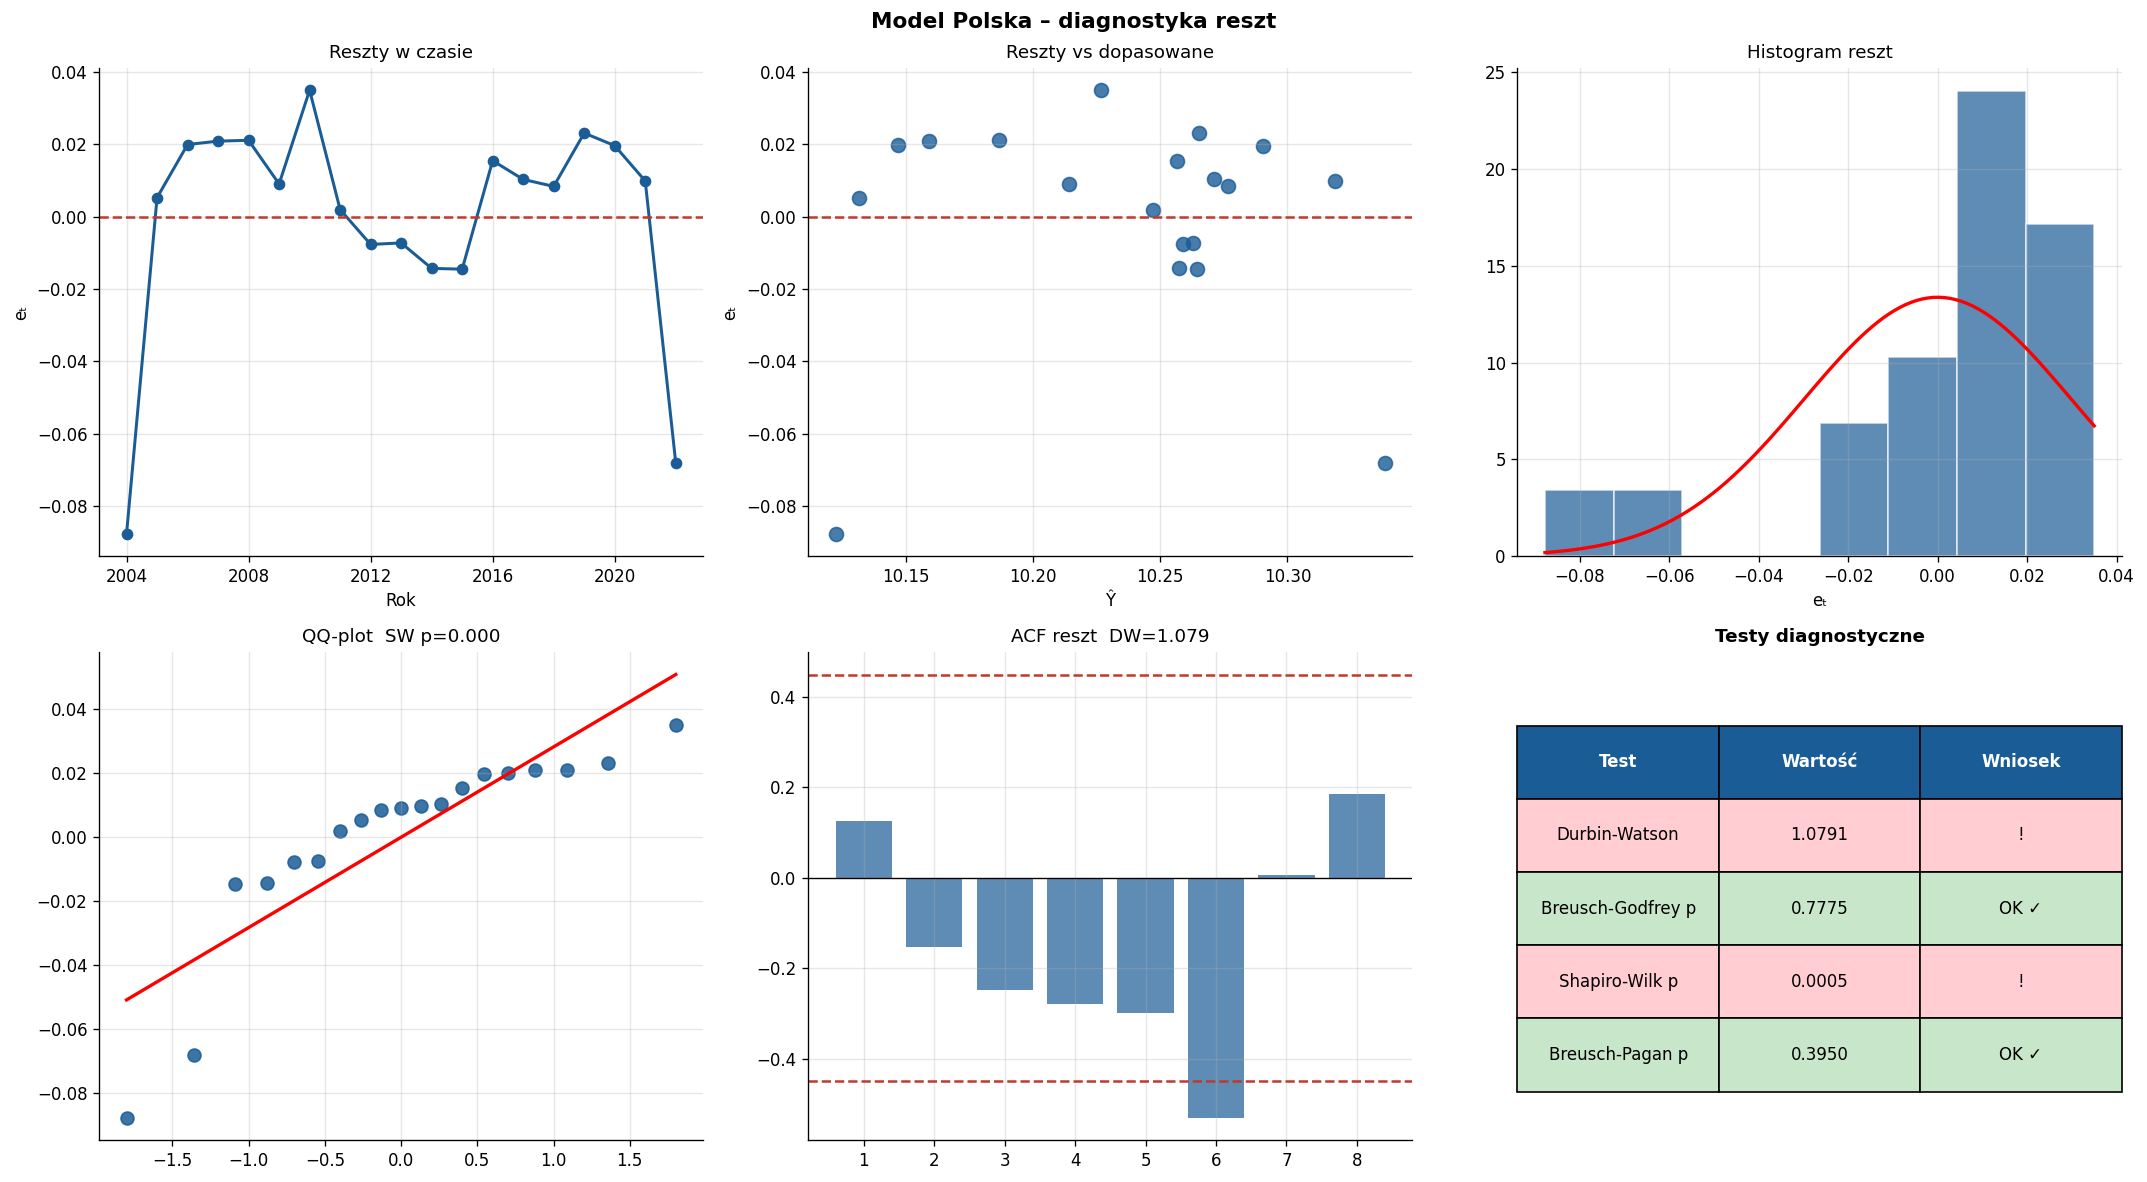
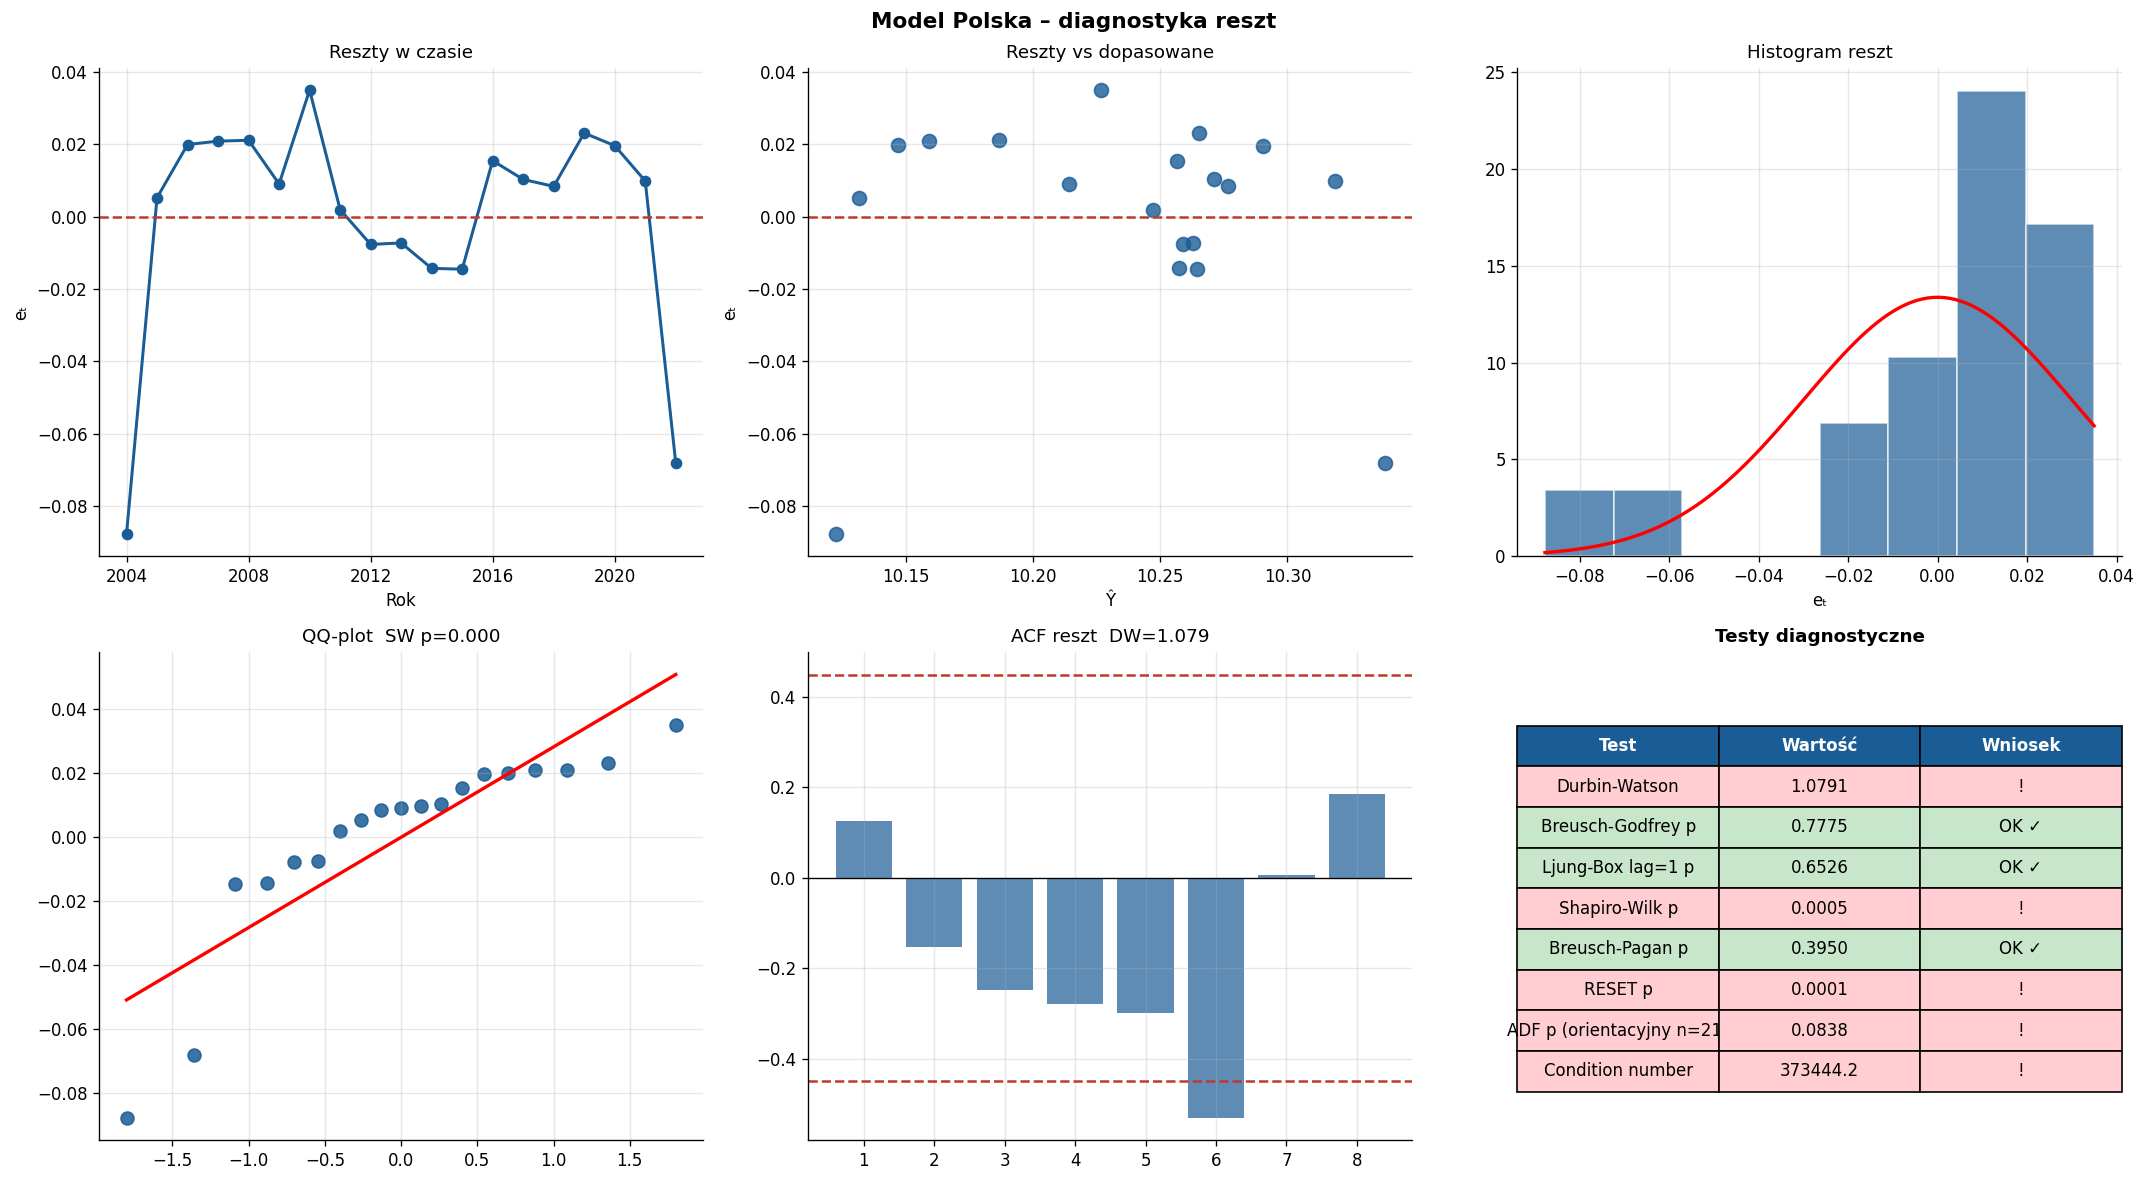
Dodanie testów statystycznych.

Changed region(s): [[0.6865, 0.6091, 0.9986, 0.9442]]

diff --git a/analiza.py b/analiza.py
@@ -446,6 +446,32 @@ sw_s_p, sw_p_p        = stats.shapiro(model_p.resid)
 bp_lm_p, bp_p_p, _, _ = het_breuschpagan(model_p.resid, X_tr_p)
 print(f"DW={dw_p:.4f}  BG p={bg_p:.4f}  SW p={sw_p_p:.4f}  BP p={bp_p_p:.4f}")
 
+# ── Dodatkowe testy – Model Polska ───────────────────────────
+
+# Ljung-Box (lag=2 max przy n=21)
+from statsmodels.stats.diagnostic import acorr_ljungbox
+lb_p = acorr_ljungbox(model_p.resid, lags=[1, 2], return_df=True)
+
+# Jarque-Bera – pomijamy dla n=21, moc za niska
+
+# RESET – forma funkcyjna
+from statsmodels.stats.diagnostic import linear_reset
+reset_p = linear_reset(model_p, power=2, use_f=True)
+
+# White – pomijamy dla n=21, za mało obserwacji
+
+# ADF – stacjonarność zmiennej zależnej
+from statsmodels.tsa.stattools import adfuller
+adf_p = adfuller(dp_tr["ln_zuzycie"], maxlag=2, autolag=None)
+
+# Condition number – multikolinearność
+cond_p = np.linalg.cond(X_tr_p)
+
+print(f"\n  Ljung-Box lag=1 p={lb_p['lb_pvalue'].iloc[0]:.4f}  lag=2 p={lb_p['lb_pvalue'].iloc[1]:.4f}")
+print(f"  RESET p={reset_p.pvalue:.4f}  {'forma OK ✓' if reset_p.pvalue>0.05 else 'błędna specyfikacja!'}")
+print(f"  ADF p={adf_p[1]:.4f}  {'stacjonarny ✓' if adf_p[1]<0.05 else 'niestacjonarny – wynik orientacyjny (n=21)'}")
+print(f"  Condition number={cond_p:.1f}  {'OK ✓' if cond_p<1000 else 'wysoka multikolinearność!'}")
+
 X_te_p = pd.DataFrame({"const":np.ones(len(dp_te)),
     "ln_pkb_pc":dp_te["ln_pkb_pc"].values,
     "ln_cena":dp_te["ln_cena"].values, "hdd":dp_te["hdd"].values})
@@ -525,10 +551,16 @@ ax.bar(range(1,max_lag),acf_v,color=BLUE,alpha=0.7)
 ci95=1.96/np.sqrt(len(resid_p)); ax.axhline(ci95,color=RED,ls="--",lw=1.5); ax.axhline(-ci95,color=RED,ls="--",lw=1.5)
 ax.axhline(0,color="black",lw=0.8); ax.set_title(f"ACF reszt  DW={dw_p:.3f}")
 ax=axes[1,2]; ax.axis("off")
-test_rows_p=[["Durbin-Watson",f"{dw_p:.4f}",ok(1.5<dw_p<2.5)],
-             ["Breusch-Godfrey p",f"{bg_p:.4f}",ok(bg_p>0.05)],
-             ["Shapiro-Wilk p",f"{sw_p_p:.4f}",ok(sw_p_p>0.05)],
-             ["Breusch-Pagan p",f"{bp_p_p:.4f}",ok(bp_p_p>0.05)]]
+test_rows_p=[
+    ["Durbin-Watson",            f"{dw_p:.4f}",   ok(1.5<dw_p<2.5)],
+    ["Breusch-Godfrey p",        f"{bg_p:.4f}",   ok(bg_p>0.05)],
+    ["Ljung-Box lag=1 p",        f"{lb_p['lb_pvalue'].iloc[0]:.4f}", ok(lb_p['lb_pvalue'].iloc[0]>0.05)],
+    ["Shapiro-Wilk p",           f"{sw_p_p:.4f}", ok(sw_p_p>0.05)],
+    ["Breusch-Pagan p",          f"{bp_p_p:.4f}", ok(bp_p_p>0.05)],
+    ["RESET p",                  f"{reset_p.pvalue:.4f}", ok(reset_p.pvalue>0.05)],
+    ["ADF p (orientacyjny n=21)",f"{adf_p[1]:.4f}", ok(adf_p[1]<0.05)],
+    ["Condition number",         f"{cond_p:.1f}", ok(cond_p<1000)],
+]
 t3=ax.table(cellText=test_rows_p,colLabels=["Test","Wartość","Wniosek"],cellLoc="center",loc="center",bbox=[0,0.1,1,0.75])
 t3.auto_set_font_size(False);t3.set_fontsize(10)
 for j in range(3): t3[0,j].set_facecolor("#1a5c96");t3[0,j].set_text_props(color="white",fontweight="bold")
@@ -586,6 +618,33 @@ bg_lm_fe, bg_fe,  _, _ = acorr_breusch_godfrey(model_fe, nlags=2)
 sw_s_fe, sw_p_fe        = stats.shapiro(model_fe.resid)
 bp_lm_fe, bp_p_fe, _, _ = het_breuschpagan(model_fe.resid, X_tr_w)
 print(f"DW={dw_fe:.4f}  BG p={bg_fe:.4f}  SW p={sw_p_fe:.4f}  BP p={bp_p_fe:.4f}")
+
+# ── Dodatkowe testy – Model FE ────────────────────────────────
+
+# Ljung-Box (lag=4 OK przy n=288)
+lb_fe = acorr_ljungbox(model_fe.resid, lags=[1, 2, 4], return_df=True)
+
+# Jarque-Bera (wiarygodny przy n=288)
+from statsmodels.stats.stattools import jarque_bera
+jb_stat_fe, jb_p_fe, jb_skew_fe, jb_kurt_fe = jarque_bera(model_fe.resid)
+
+# White – tylko na głównych zmiennych, bez dummy
+from statsmodels.stats.diagnostic import het_white
+white_fe_stat, white_fe_p, _, _ = het_white(model_fe.resid, X_tr_w[:, :n_main])
+
+# RESET – orientacyjny przy panelu z dummy
+reset_fe = linear_reset(model_fe, power=2, use_f=True)
+
+# Condition number – cała macierz X
+cond_fe = np.linalg.cond(X_tr_w)
+# Condition number – tylko główne zmienne (bez dummy)
+cond_fe_main = np.linalg.cond(X_tr_w[:, :n_main])
+
+print(f"\n  Ljung-Box lag=1 p={lb_fe['lb_pvalue'].iloc[0]:.4f}  lag=2 p={lb_fe['lb_pvalue'].iloc[1]:.4f}  lag=4 p={lb_fe['lb_pvalue'].iloc[2]:.4f}")
+print(f"  Jarque-Bera p={jb_p_fe:.4f}  skewness={jb_skew_fe:.3f}  kurtosis={jb_kurt_fe:.3f}")
+print(f"  White (bez dummy) p={white_fe_p:.4f}  {'homoskedastyczność ✓' if white_fe_p>0.05 else 'heteroskedastyczność!'}")
+print(f"  RESET p={reset_fe.pvalue:.4f}  {'forma OK ✓' if reset_fe.pvalue>0.05 else 'błędna specyfikacja (orientacyjny przy panelu)'}")
+print(f"  Condition number (pełny)={cond_fe:.1f}  (główne zmienne)={cond_fe_main:.1f}")
 
 model_pool = sm.OLS(y_tr_w, np.column_stack([np.ones(len(dw_tr)), X_vars_tr])).fit()
 q    = len(dum_cols)
@@ -693,11 +752,18 @@ ax.boxplot(box_data,patch_artist=True,boxprops=dict(facecolor=BLUE+"88"),medianp
 ax.set_xticklabels([p[:6] for p in PROV[:8]],rotation=35,ha="right",fontsize=8)
 ax.axhline(0,color=RED,ls="--",lw=1.5); ax.set_title("Reszty per województwo (8)")
 ax=axes[1,2]; ax.axis("off")
-test_rows_fe=[["Durbin-Watson",f"{dw_fe:.4f}",ok(1.5<dw_fe<2.5)],
-              ["Breusch-Godfrey p",f"{bg_fe:.4f}",ok(bg_fe>0.05)],
-              ["Shapiro-Wilk p",f"{sw_p_fe:.4f}",ok(sw_p_fe>0.05)],
-              ["Breusch-Pagan p",f"{bp_p_fe:.4f}",ok(bp_p_fe>0.05)],
-              ["F-test dummies p",f"{p_fe:.6f}","FE istotne ✓" if p_fe<0.05 else "FE nieistotne"]]
+test_rows_fe=[
+    ["Durbin-Watson (orientacyjny)", f"{dw_fe:.4f}",  ok(1.5<dw_fe<2.5)],
+    ["Breusch-Godfrey p",           f"{bg_fe:.4f}",  ok(bg_fe>0.05)],
+    ["Ljung-Box lag=4 p",           f"{lb_fe['lb_pvalue'].iloc[2]:.4f}", ok(lb_fe['lb_pvalue'].iloc[2]>0.05)],
+    ["Shapiro-Wilk p (n=288)",      f"{sw_p_fe:.4f}", ok(sw_p_fe>0.05)],
+    ["Jarque-Bera p",               f"{jb_p_fe:.4f}", ok(jb_p_fe>0.05)],
+    ["Breusch-Pagan p",             f"{bp_p_fe:.4f}", ok(bp_p_fe>0.05)],
+    ["White p (bez dummy)",         f"{white_fe_p:.4f}", ok(white_fe_p>0.05)],
+    ["RESET p (orientacyjny)",      f"{reset_fe.pvalue:.4f}", ok(reset_fe.pvalue>0.05)],
+    ["F-test dummies p",            f"{p_fe:.6f}", "FE istotne ✓" if p_fe<0.05 else "FE nieistotne"],
+    ["Condition number (główne)",   f"{cond_fe_main:.1f}", ok(cond_fe_main<1000)],
+]
 t4=ax.table(cellText=test_rows_fe,colLabels=["Test","Wartość","Wniosek"],cellLoc="center",loc="center",bbox=[0,0.08,1,0.85])
 t4.auto_set_font_size(False);t4.set_fontsize(9)
 for j in range(3): t4[0,j].set_facecolor("#1a5c96");t4[0,j].set_text_props(color="white",fontweight="bold")